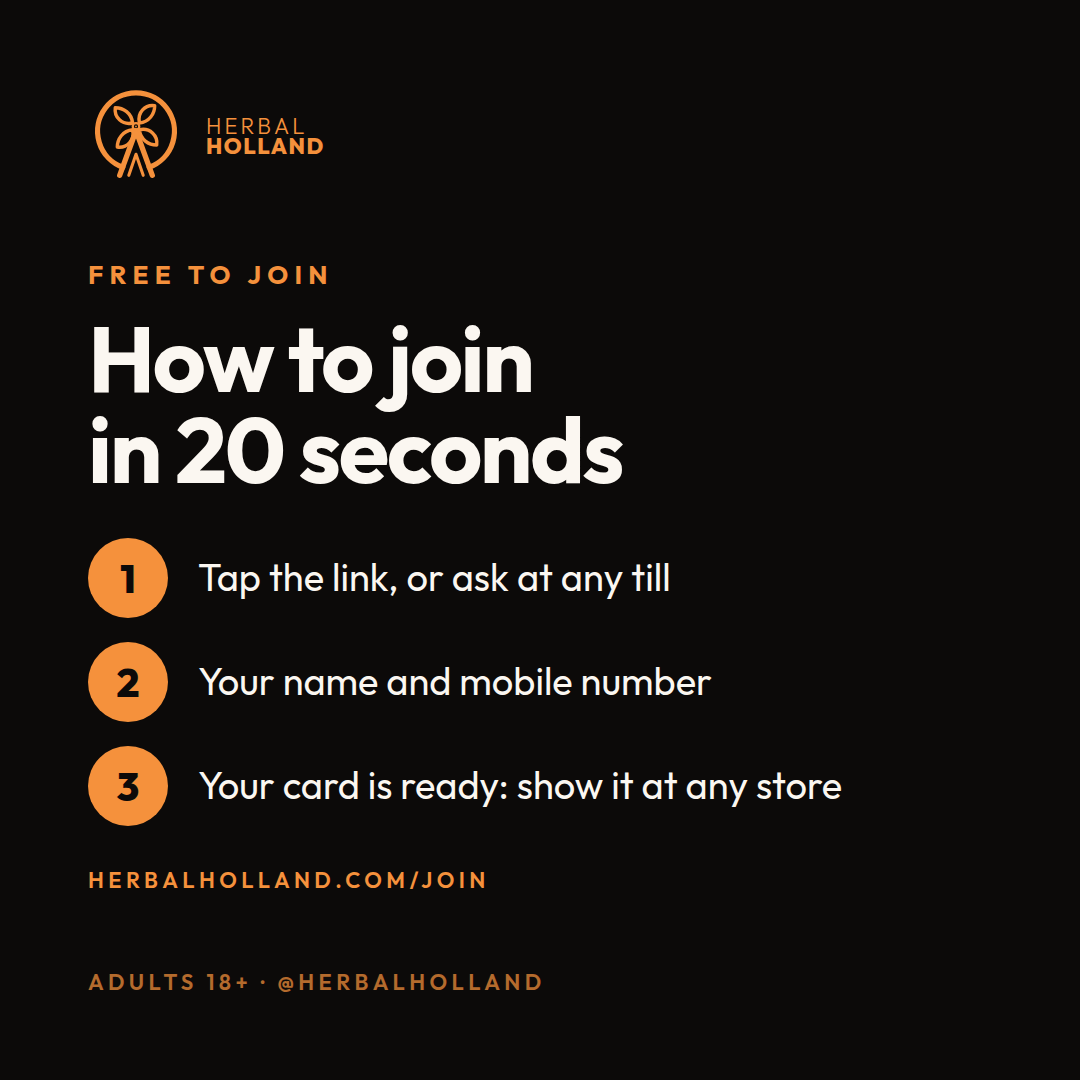
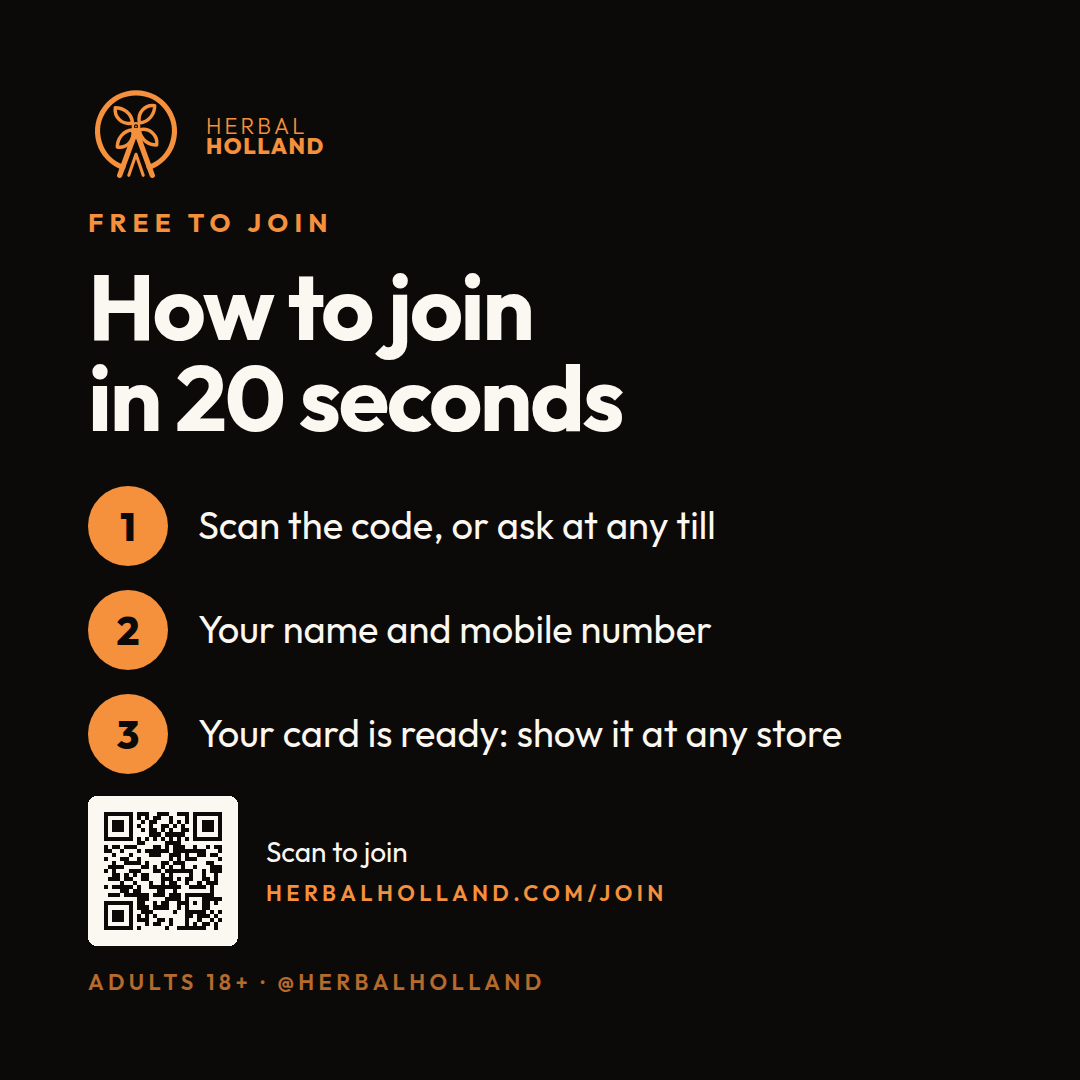
Join QR on the launch film's end card and the How to join post and story
Claude-Session: https://claude.ai/code/session_018vsjrGfvxYr17q99sCwpK4

Changed region(s): [[0.0611, 0.2444, 0.7944, 0.8861], [0.0611, 0.1833, 0.3056, 0.2139]]

diff --git a/scripts/video/launch.ts b/scripts/video/launch.ts
@@ -5,6 +5,7 @@
 // on the beat of its own soundtrack (120 bpm, one beat = 0.5 s), synthesised in the page so nothing needs a licence.
 // Words: cannabis for the story and the culture; the products named are CBD only. No THC products, prices or claims.
 import { Build, dataUri, EASE, EASE_IO, mark, markDrawCss, page, Scene, JOIN_URL } from "./scene";
+import { JOIN_QR, qrSvg } from "../qr";
 
 type Part = "open" | "seed" | "holland" | "home" | "hills" | "tour" | "founding" | "end";
 const ORDER: Part[] = ["open", "seed", "holland", "home", "hills", "tour", "founding", "end"];
@@ -155,12 +156,13 @@ ${windows.map((_, i) => `.ams rect:nth-of-type(${i + 1}){${b.tween(h0 + 1.2 + i 
 
 /* the end card */
 .end{${b.tween(e0, e0 + 0.4, "opacity:0", "opacity:1", EASE_IO)};background:var(--black);gap:2.2vmin;z-index:20}
-.end .mark{width:${P ? 24 : 20}vmin;height:${P ? 24 : 20}vmin;color:var(--orange)}
+.end .mark{width:${P ? 18 : 12}vmin;height:${P ? 18 : 12}vmin;color:var(--orange)}
 ${markDrawCss(b, ".end", e0 + 0.05, 22)}
 .end .o1{font-size:${P ? 3.2 : 2.8}vmin;font-weight:600;letter-spacing:.24em;text-transform:uppercase;color:var(--orange);${b.win(e0 + 0.3, SECONDS + 5)}}
 .end .twn{font-size:${P ? 6.4 : 5.4}vmin;font-weight:700;color:var(--cream);${b.win(e0 + 0.4, SECONDS + 5)}}
 .end .j{margin-top:2vmin;font-size:${P ? 5.4 : 4.6}vmin;font-weight:300;color:var(--cream);${b.win(e0 + 0.6, SECONDS + 5)}}
 .end .u{font-size:${P ? 8.4 : 7.2}vmin;font-weight:800;letter-spacing:-.02em;color:var(--orange);white-space:nowrap;${b.win(e0 + 0.8, SECONDS + 5, { enter: "opacity:0;transform:scale(.9)", hold: "opacity:1;transform:none", ease: "cubic-bezier(.34,1.56,.64,1)" })}}
+.end .qr{width:${P ? 30 : 22}vmin;height:${P ? 30 : 22}vmin;${b.win(e0 + 1.0, SECONDS + 5, { enter: "opacity:0;transform:scale(.92)", hold: "opacity:1;transform:none", ease: EASE })}}
 .end .s{font-size:${P ? 2.9 : 2.5}vmin;font-weight:600;letter-spacing:.24em;text-transform:uppercase;color:var(--ink300);${b.win(e0 + 1.1, SECONDS + 5)}}
 `;
 
@@ -184,7 +186,7 @@ ${shots.map((s) => s.bg).join("")}
 <div class="cardwrap">${shots.map((s) => s.card).join("")}</div>
 <div class="center founding pad"><div class="fcard"><div class="top">${mark()}<span>Founding Member</span></div><div class="no"><small>#</small>0001</div><div class="bt">Herbal Holland Rewards</div></div>
   <div class="h1">Be a <b>founding member.</b></div><div class="sub2">The first 2,026 get a numbered card. Free for adults 18+.</div></div>
-<div class="center end">${mark()}<div class="o1">Opening 1 December</div><div class="twn">Hillcrest · Hilton</div><div class="j">Join free</div><div class="u">${JOIN_URL}</div><div class="s">Members only · Adults 18+</div></div>
+<div class="center end">${mark()}<div class="o1">Opening 1 December</div><div class="twn">Hillcrest · Hilton</div><div class="j">Join free</div><div class="u">${JOIN_URL}</div><div class="qr">${qrSvg(JOIN_QR, "#0c0a09", "#fbf7f1")}</div><div class="s">Members only · Adults 18+</div></div>
 <div class="flash"></div>
 <div class="vig"></div>
 <svg class="grain"><filter id="gn"><feTurbulence id="turb" type="fractalNoise" baseFrequency=".85" numOctaves="2" seed="1"/></filter><rect width="100%" height="100%" filter="url(#gn)"/></svg>`;

diff --git a/scripts/social-kit.tsx b/scripts/social-kit.tsx
@@ -7,6 +7,7 @@ import { mkdirSync, readFileSync } from "node:fs";
 import { renderToStaticMarkup } from "react-dom/server";
 import { chromium } from "@playwright/test";
 import { MarkGlyph } from "../src/components/brand/logo";
+import { JOIN_QR, qrSvg } from "./qr";
 
 const OUT = "public/brand/social";
 const SUNSET = "#f5913c", INK = "#0c0a09", CREAM = "#fbf7f1", INK_450 = "#8f8780";
@@ -121,11 +122,14 @@ const CARDS = [
       <div class="eyebrow" style="font-size:${tall ? 30 : 26}px;color:${SUNSET}">Free to join</div>
       <div class="h" style="margin-top:${tall ? 32 : 22}px;font-size:${tall ? 104 : 92}px;color:${CREAM}">How to join<br>in 20 seconds</div>
       <ol style="list-style:none;margin:${tall ? 64 : 44}px 0 0;padding:0;display:flex;flex-direction:column;gap:${tall ? 34 : 24}px">
-        ${["Tap the link, or ask at any till", "Your name and mobile number", "Your card is ready: show it at any store"]
+        ${["Scan the code, or ask at any till", "Your name and mobile number", "Your card is ready: show it at any store"]
           .map((t, i) => `<li style="display:flex;align-items:center;gap:30px"><span style="flex:none;width:${tall ? 92 : 80}px;height:${tall ? 92 : 80}px;border-radius:50%;background:${SUNSET};color:${INK};font-weight:800;font-size:${tall ? 46 : 40}px;display:flex;align-items:center;justify-content:center">${i + 1}</span><span class="p" style="font-size:${tall ? 44 : 38}px;color:${CREAM}">${t}</span></li>`)
           .join("")}
       </ol>
-      <div class="small" style="margin-top:${tall ? 60 : 40}px;font-size:${tall ? 26 : 22}px;color:${SUNSET};opacity:1">${JOIN}</div>`,
+      <div style="margin-top:${tall ? 60 : 22}px;display:flex;align-items:center;gap:${tall ? 36 : 28}px">
+        <div style="flex:none;width:${tall ? 240 : 150}px;height:${tall ? 240 : 150}px">${qrSvg(JOIN_QR, INK, CREAM)}</div>
+        <div><div class="p" style="font-size:${tall ? 34 : 28}px;color:${CREAM}">Scan to join</div><div class="small" style="margin-top:8px;font-size:${tall ? 26 : 22}px;color:${SUNSET};opacity:1">${JOIN}</div></div>
+      </div>`,
   },
   ...[
     ["4-bluff", "Bluff", "208 Tara Road, Bluff, Durban"],

diff --git a/scripts/qr.ts b/scripts/qr.ts
@@ -1,0 +1,20 @@
+// A QR code as an SVG string (error correction M, 4-module quiet zone): `ink` modules on a rounded `ground` tile.
+import QRCode from "qrcode";
+
+export const JOIN_QR = "https://herbalholland.com/join";
+
+export function qrSvg(url: string, ink: string, ground: string) {
+  const q = QRCode.create(url, { errorCorrectionLevel: "M" });
+  const n = q.modules.size, w = n + 8;
+  let d = "";
+  for (let r = 0; r < n; r++) {
+    for (let c = 0; c < n; ) {
+      if (!q.modules.get(r, c)) { c++; continue; }
+      let e = c;
+      while (e < n && q.modules.get(r, e)) e++;
+      d += `M${c + 4} ${r + 4}h${e - c}v1h${c - e}z`;
+      c = e;
+    }
+  }
+  return `<svg viewBox="0 0 ${w} ${w}" width="100%" height="100%" shape-rendering="crispEdges"><rect width="${w}" height="${w}" rx="${w * 0.06}" fill="${ground}"/><path d="${d}" fill="${ink}"/></svg>`;
+}
